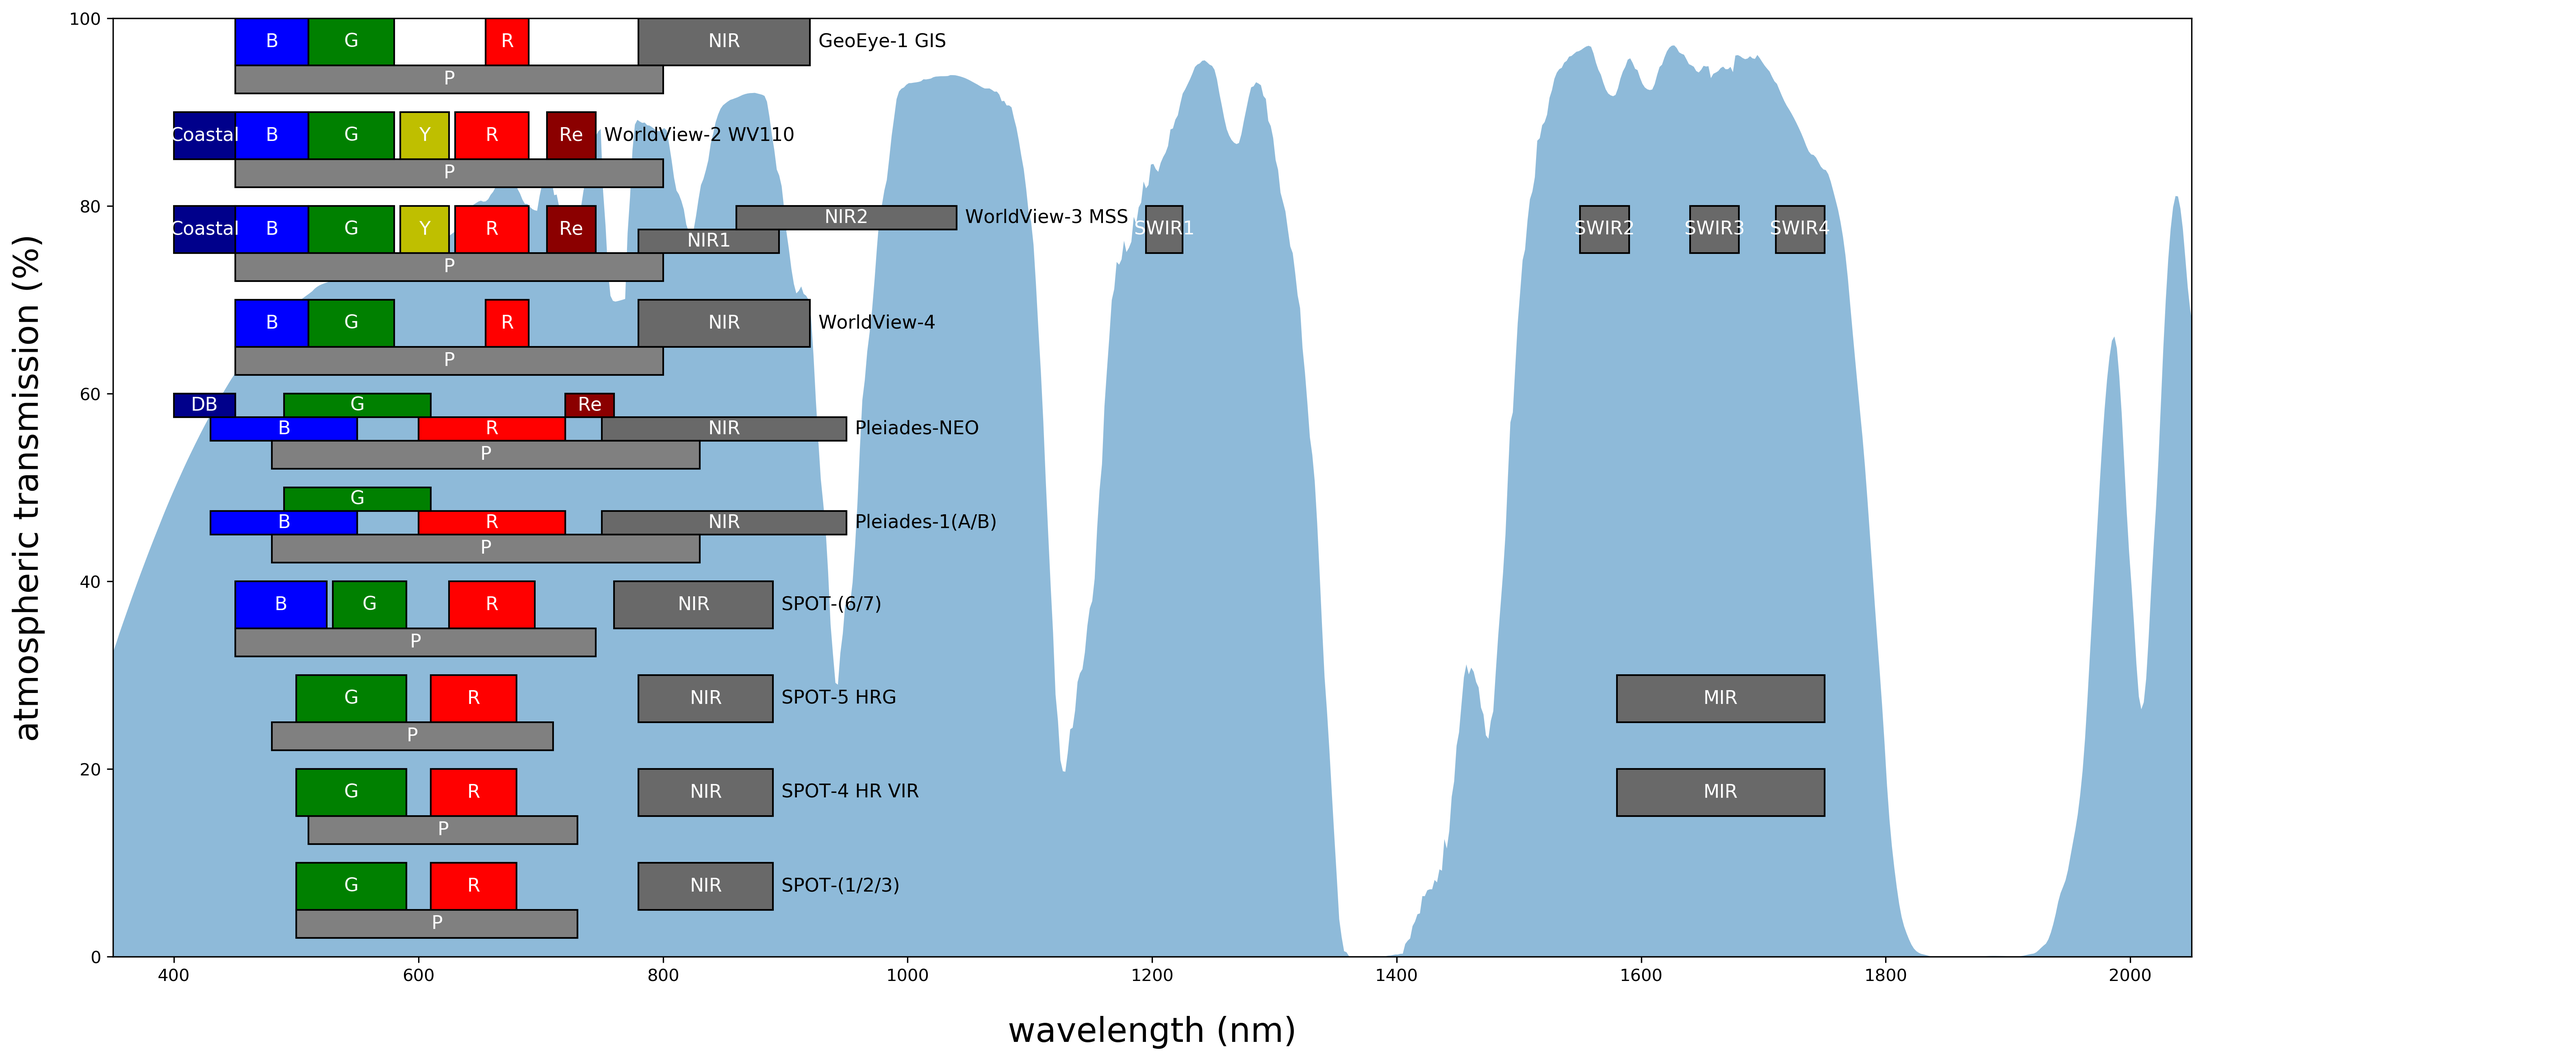
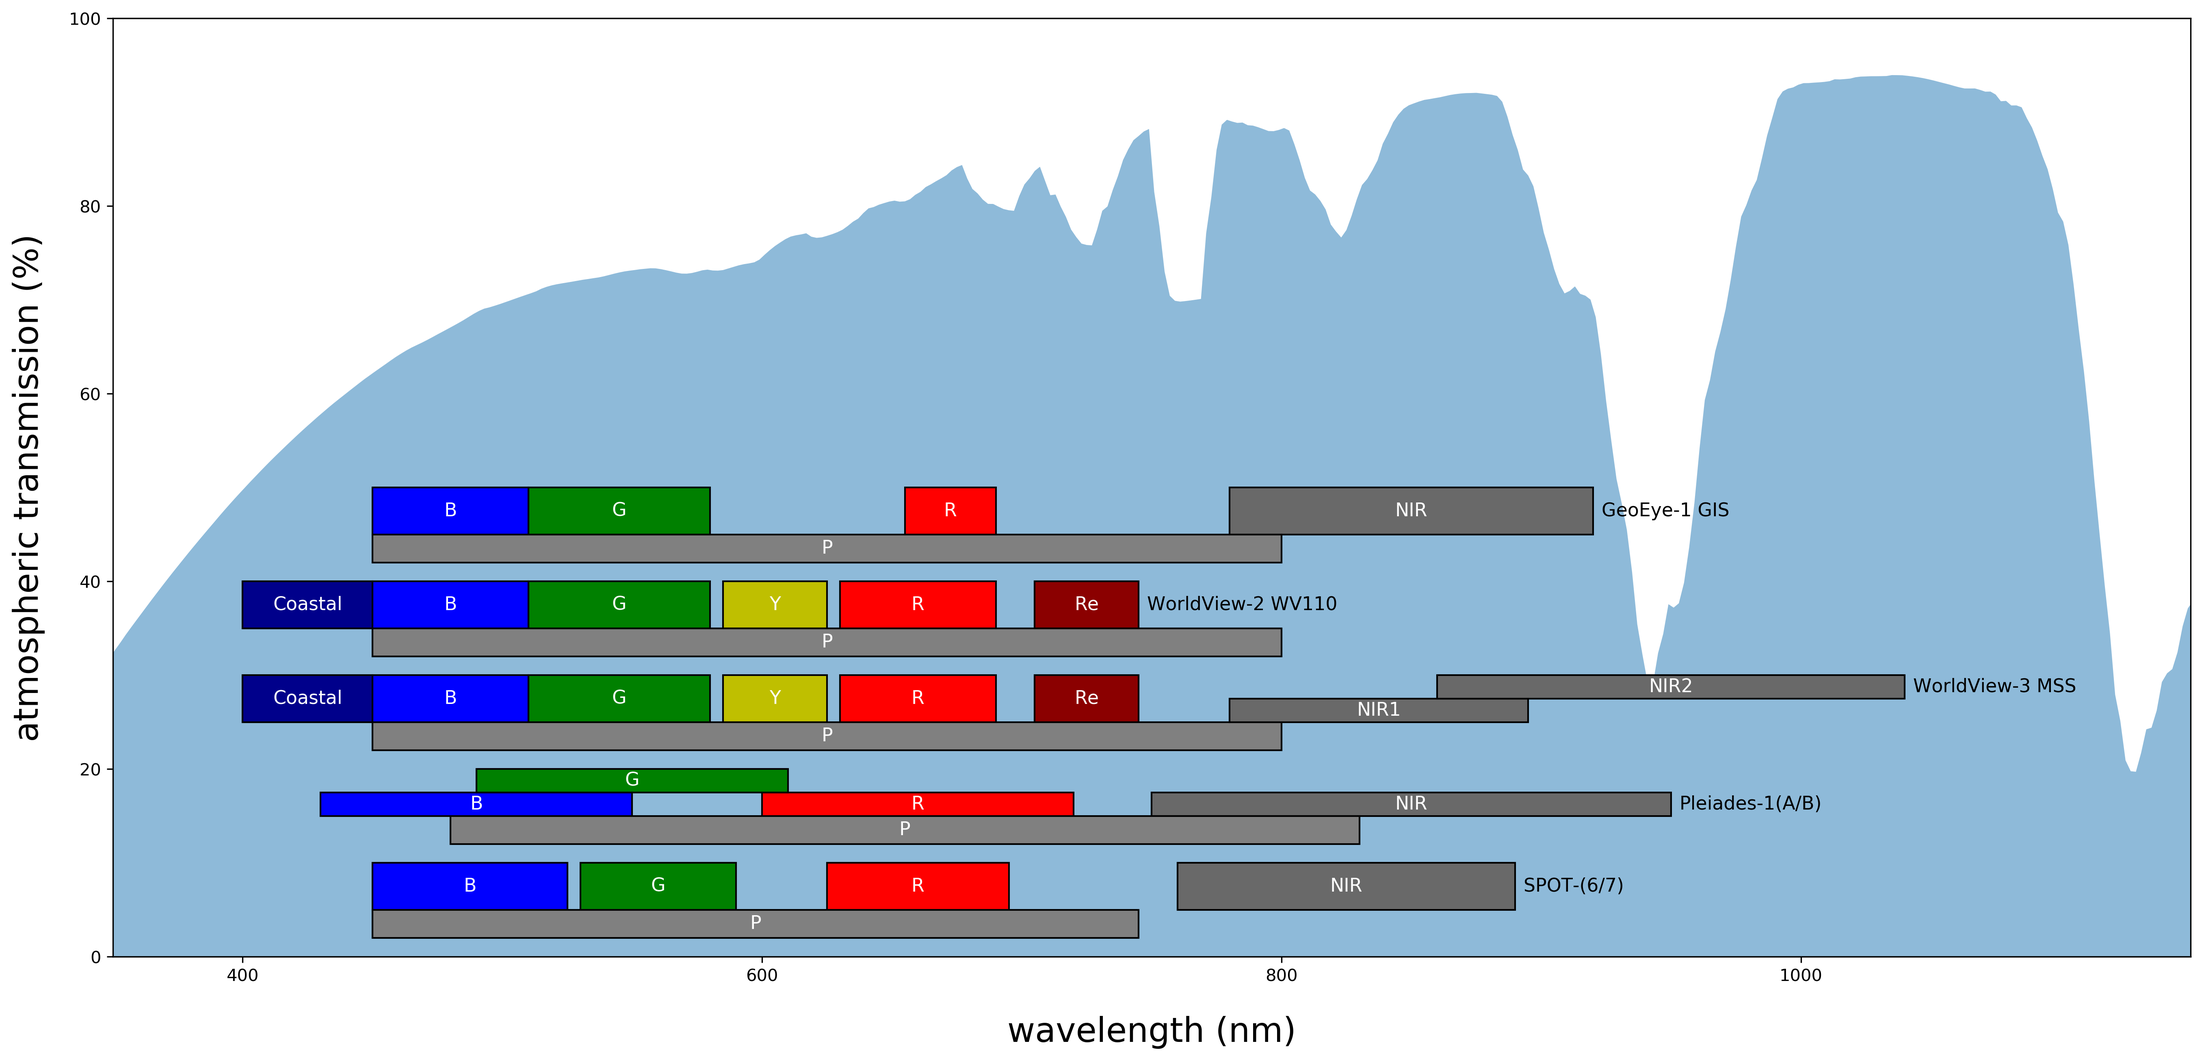
MAde default plot for VHR with only current systems, cutout after NIR

diff --git a/transmission_plot_VHR.py b/transmission_plot_VHR.py
@@ -28,8 +28,9 @@ def plot_sensor(ax0, sens, yloc, height, **kwargs):
         patch_list.append(this_patch)
         
         if num is not None:
-            ax0.add_patch(this_patch)
-            annotate_patch(ax0, this_patch, str(num))
+            if ax0.get_xlim()[1] > lmin:
+                ax0.add_patch(this_patch)
+                annotate_patch(ax0, this_patch, str(num))
         	
     right = max([b.get_bbox().xmax for b in patch_list])
 
@@ -66,9 +67,15 @@ ax0.add_patch(Polygon(data.values, alpha=0.5))
 # ax1.spines['top'].set_visible(False)
 #ax1.set_yticks([])
 
-ax0.set_xlim(350, 2050)
+# if SWIR
+#ax0.set_xlim(350, 2050)
+#ax0.set_ylim(0, 100)
+#ax0.set_xticks(range(400, 2050, 200))
+
+#if only up to NIR
+ax0.set_xlim(350, 1150)
 ax0.set_ylim(0, 100)
-ax0.set_xticks(range(400, 2050, 200))
+ax0.set_xticks(range(400, 1150, 200))
 
 #ax1.set_xlim(8000, 14000)
 #ax1.set_xticks(range(8000, 15000, 2000))
@@ -201,33 +208,50 @@ Spot_6_7_P = {'name': None,
                'bands':  [('P', 450, 745, 'gray')]}  
 
 
-plot_sensor(ax0, Spot_1_2_3, 5, 5)
-plot_sensor(ax0, Spot_1_2_3_P, 2, 3)
-plot_sensor(ax0, Spot_4, 15, 5)
-plot_sensor(ax0, Spot_4_M, 15, 5)
-plot_sensor(ax0, Spot_4_P, 12, 3)
-plot_sensor(ax0, Spot_5, 25, 5)
-plot_sensor(ax0, Spot_5_M, 25, 5)
-plot_sensor(ax0, Spot_5_P, 22, 3)
-plot_sensor(ax0, Spot_6_7, 35, 5)
-plot_sensor(ax0, Spot_6_7_P, 32, 3)
-plot_sensor(ax0, Pleiades_1, 45, 2.5)
-plot_sensor(ax0, Pleiades_1_G, 47.5, 2.5)
-plot_sensor(ax0, Pleiades_1_P, 42, 3)
-plot_sensor(ax0, Pleiades_NEO, 55, 2.5)
-plot_sensor(ax0, Pleiades_NEO_G, 57.5, 2.5)
-plot_sensor(ax0, Pleiades_NEO_P, 52, 3)
-plot_sensor(ax0, WV_4, 65, 5)
-plot_sensor(ax0, WV_4_P, 62, 3)
-plot_sensor(ax0, WV_3, 75, 5)
-plot_sensor(ax0, WV_3_P, 72, 3)
-plot_sensor(ax0, WV_3_NIR1, 75, 2.5)
-plot_sensor(ax0, WV_3_NIR2, 77.5, 2.5)
-plot_sensor(ax0, WV_2, 85, 5)
-plot_sensor(ax0, WV_2_P, 82, 3)
-plot_sensor(ax0, GE_1, 95, 5)
-plot_sensor(ax0, GE_1_P, 92, 3)
+## French series
+#plot_sensor(ax0, Spot_1_2_3, 5, 5)
+#plot_sensor(ax0, Spot_1_2_3_P, 2, 3)
+#plot_sensor(ax0, Spot_4, 15, 5)
+#plot_sensor(ax0, Spot_4_M, 15, 5)
+#plot_sensor(ax0, Spot_4_P, 12, 3)
+#plot_sensor(ax0, Spot_5, 25, 5)
+#plot_sensor(ax0, Spot_5_M, 25, 5)
+#plot_sensor(ax0, Spot_5_P, 22, 3)
+#plot_sensor(ax0, Spot_6_7, 35, 5)
+#plot_sensor(ax0, Spot_6_7_P, 32, 3)
+#plot_sensor(ax0, Pleiades_1, 45, 2.5)
+#plot_sensor(ax0, Pleiades_1_G, 47.5, 2.5)
+#plot_sensor(ax0, Pleiades_1_P, 42, 3)
+#plot_sensor(ax0, Pleiades_NEO, 55, 2.5)
+#plot_sensor(ax0, Pleiades_NEO_G, 57.5, 2.5)
+#plot_sensor(ax0, Pleiades_NEO_P, 52, 3)
+#
+##DigitalGlobe
+#plot_sensor(ax0, WV_4, 5, 5)
+#plot_sensor(ax0, WV_4_P, 2, 3)
+#plot_sensor(ax0, WV_3, 15, 5)
+#plot_sensor(ax0, WV_3_P, 12, 3)
+#plot_sensor(ax0, WV_3_NIR1, 15, 2.5)
+#plot_sensor(ax0, WV_3_NIR2, 17.5, 2.5)
+#plot_sensor(ax0, WV_2, 25, 5)
+#plot_sensor(ax0, WV_2_P, 22, 3)
+#plot_sensor(ax0, GE_1, 35, 5)
+#plot_sensor(ax0, GE_1_P, 32, 3)
 
+# Current
+plot_sensor(ax0, Spot_6_7, 5, 5)
+plot_sensor(ax0, Spot_6_7_P, 2, 3)
+plot_sensor(ax0, Pleiades_1, 15, 2.5)
+plot_sensor(ax0, Pleiades_1_G, 17.5, 2.5)
+plot_sensor(ax0, Pleiades_1_P, 12, 3)
+plot_sensor(ax0, WV_3, 25, 5) 
+plot_sensor(ax0, WV_3_P, 22, 3)
+plot_sensor(ax0, WV_3_NIR1, 25, 2.5)
+plot_sensor(ax0, WV_3_NIR2, 27.5, 2.5)
+plot_sensor(ax0, WV_2, 35, 5)
+plot_sensor(ax0, WV_2_P, 32, 3)
+plot_sensor(ax0, GE_1, 45, 5)
+plot_sensor(ax0, GE_1_P, 42, 3)
 
 fig.savefig('TransmissionVHRSensorBands.png', bbox_inches='tight', dpi=300)
 
